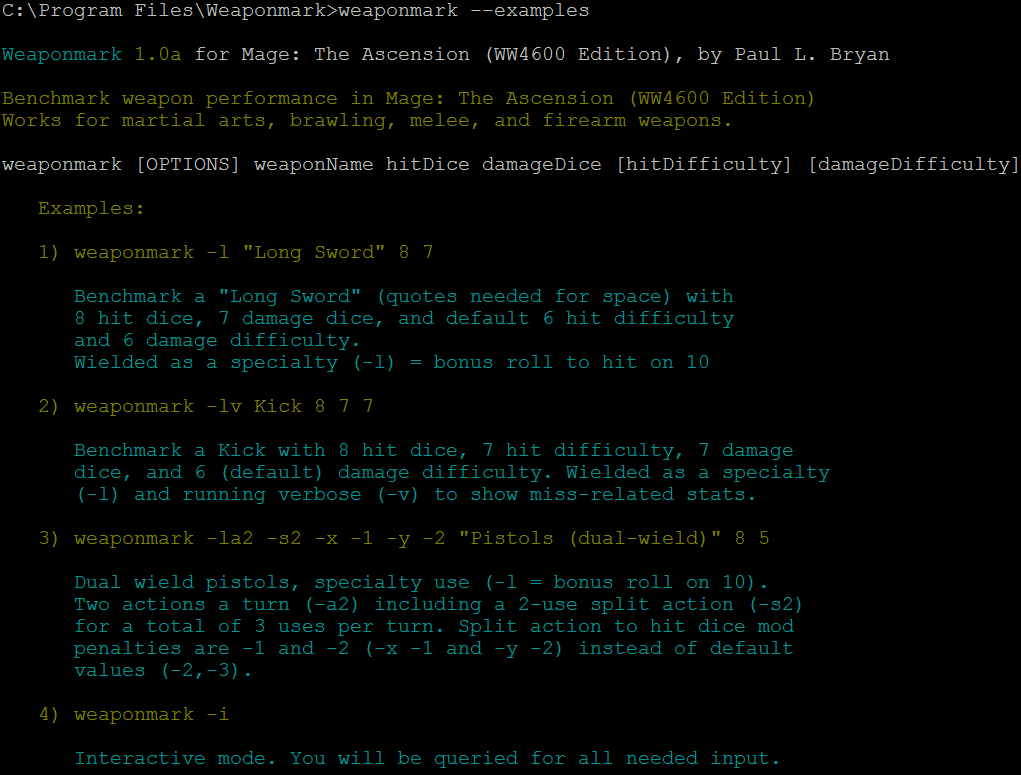
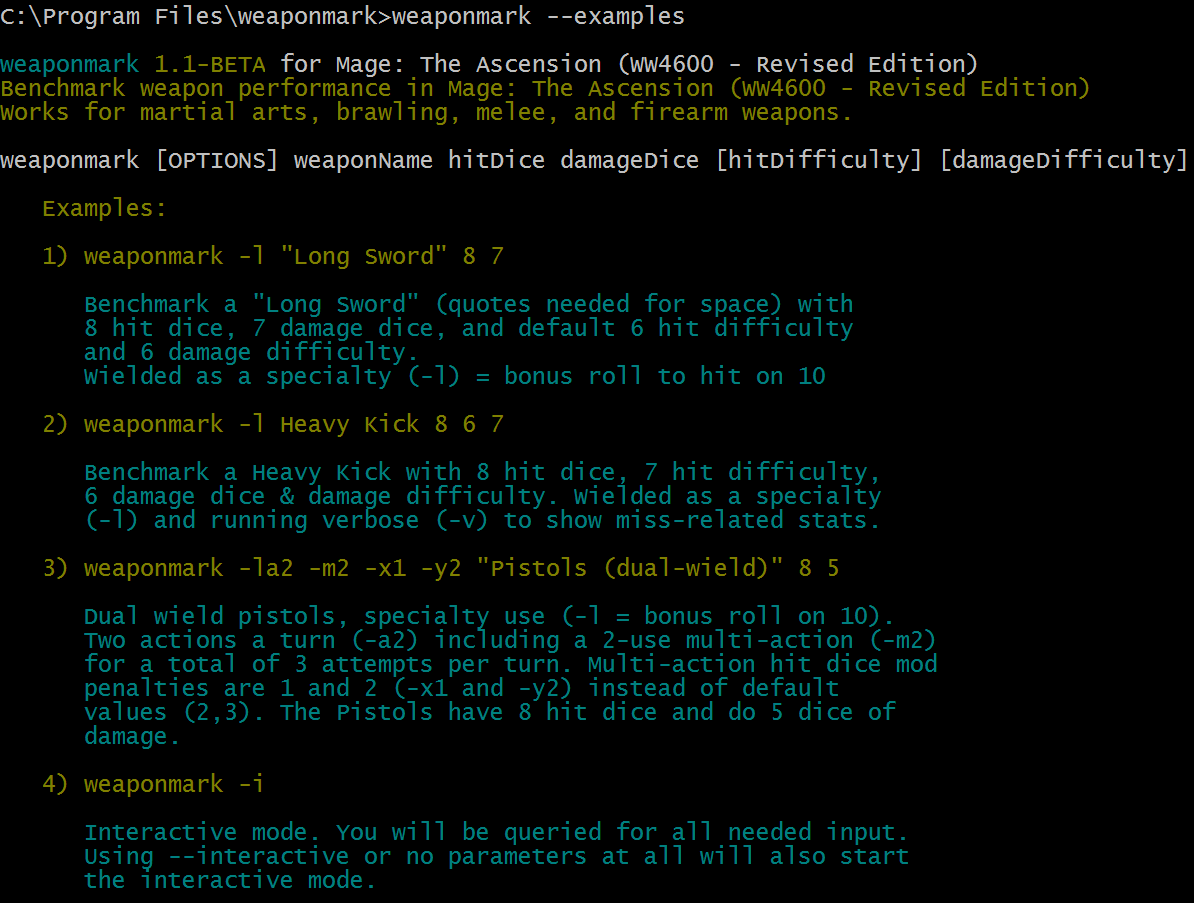
adjusted for a 1.1 beta release

Changed region(s): [[0.0, 0.0619, 1.0, 0.991], [0.0, 0.0, 0.5769, 0.031]]

diff --git a/README.md b/README.md
@@ -7,12 +7,30 @@ Weaponmark is a command line utility to compare weapon efficiencies for the game
 A fist fighter with 4 dexterity and 4 in the skill "Brawl" punches with 8 hit dice. She has 4 strength, this becomes her damage dice. She is capable of one action per turn and wants to do as much damage as possible so elects to split the action into three "Multiple Actions" with penalties. Here is what that looks like:
 
 ![Punch Example](https://raw.githubusercontent.com/locke8/weaponmark/master/src/main/resources/screens/punch_v.png)
-##Motivation
+## Motivation
 The purpose of this utility is to aid in play balancing the game. If you have played *Mage The Ascension* you know it is both wonderful and wonderfully vague in explaining the rule system. Weaponmark enables the storyteller to experiment with rule changes (house rules) and see what the actual effects will be on play balance.
 
 It is also useful to players looking to compare the strengths and weaknesses of various attacks (e.g. a punch vs. a rifle shot) and their effectiveness on opponents who can soak damage. 
 
-Questions such as how much damage would my attack do against an opponent with 3 stamina and 2 armor, or how likely am I to miss or botch if I split my action into three "Multiple Actions" can all be answered. 
+Questions such as how much damage would my attack do against an opponent with 3 stamina and 2 armor, or how likely am I to miss or botch if I split my action into three "Multiple Actions" can all be answered.
+### Example
+When I started playing my martial artist character I was dismayed to find that a steel-toed "heavy" kick was only a +1 to hit dice at a cost of +1 to hit difficulty. I strongly suspected the "heavy kick" attack was a loser.
+
+![Broken Heavy Kick Example](https://raw.githubusercontent.com/locke8/weaponmark/master/src/main/resources/screens/kicking.png)
+
+As you can see the "heavy kick" is indeed broken. In exchange for being four times more likely to botch and being ineffective 1 in every 6 attempts (as opposed to 1 in 10) -- *you do slightly less damage per attempt than just a regular kick. Zero Upside.*
+
+#### Possible Solution
+As a potential solution you might try this for a "heavy" kick:
+
+  - hit dice = strength + 3  *(compared to +1 in rules)*
+
+  - hit difficulty = 7       *(+1 above normal difficulty, just as in core rules)*
+
+This seems to yield results with a reasonable upside. You will still botch four times as often
+and be ineffective 1 in 6.7 attempts -- BUT -- you will also average .7 to .8 more points of damage per successful attack. If you would like the reward to be less (about .3) use strength+2 instead. For my character with four stength, ten percent more damage for the additional risks is not compelling. Twenty five percent more damage for 4x botching and increased misses - that is a risk I could see myself taking; especially if desperate.
+Before Weaponmark I had no way to know for sure what was going on; now it's easy to find problems and try out alternative solutions.
+
 ## Getting Started
 ### Installation
 #### Windows
@@ -50,21 +68,21 @@ Type `weaponmark --examples [Enter]` or `weaponmark -e [Enter]` to show some exa
 Type `weaponmark [Enter]' or 'weaponmark --interactive [Enter]` or `weaponmark -i [Enter]` to receive prompts for all needed input:
 
 ![Interactive-mode Screen](https://raw.githubusercontent.com/locke8/weaponmark/master/src/main/resources/screens/interactive.png)
-Interactive mode displays what the command line would look like using the input you provided
+Interactive mode displays what the command line would look like using the input you provided and then runs the benchmark.
 
 #### Help
 Type `weaponmark -h [Enter]` or `weaponmark --help [Enter]` to view usage instructions and options:
 
 ![Help Screen](https://raw.githubusercontent.com/locke8/weaponmark/master/src/main/resources/screens/help.png)
 
-##More Features
-### Actions (p.213-216, )
-Use the `-a<#>` parameter to specify the number of actions per turn. The default value is 1. For example, a character with Time Dilation(1) would gain a free action every turn and therefore warrant a `-a2` parameter on the command line.
+## More Features
+### Actions (p.213-216)
+Use the `-a<#>` parameter to specify the number of actions per turn. The default value is 1. For example, a character with Time Dilation(1) would gain a free action every turn and therefore warrant an `-a2` parameter on the command line.
 ### Multiple Actions (p.215, p.239)
 You can specify that the turn include a multi-action with `-m<#>`. A Multi-action action allows for 2 or 3 usages of the weapon during a single action. These "split" actions suffer from dice pool penalties. By default, these penalties are 2, 3, 4 for usage 1, 2, and (optionally) 3 in a multi-action. The penalties are subtracted from the hit dice pool when executing the attack. The penalty values can be overridden with the `-x<#>`, `-y<#>`, and `-z<#>` parameters.
 ### Soak Dice (p.238)
 If you would like to see how your weapon will perform against opponents who can soak damage, use the `-s<#>` parameter. For example, if you want to test your weapon effectiveness against an opponent with three soak dice, include `-s3` on the command line.
-### Specialties
+### Specialties (p.117)
 Specialties, as described on page 117 of the core rules book, are supported. If you are specialized in the use of your weapon, every 10 you roll to hit yields a bonus roll. Additional rolls of 10 extend this effect. Rolling a 1 on the bonus roll cancels out the 10. Include the `-l` parameter to denote specialization with a weapon.
 ### KiloTurns
 if you are not satisfied with the default 200,000 turns used to determine benchmark results, you can override this. Use `-t<#>` to specify the number of turns (in thousands) that the benchmark should run.  For example, to run one million turns, include `-t1000` on the command line.
